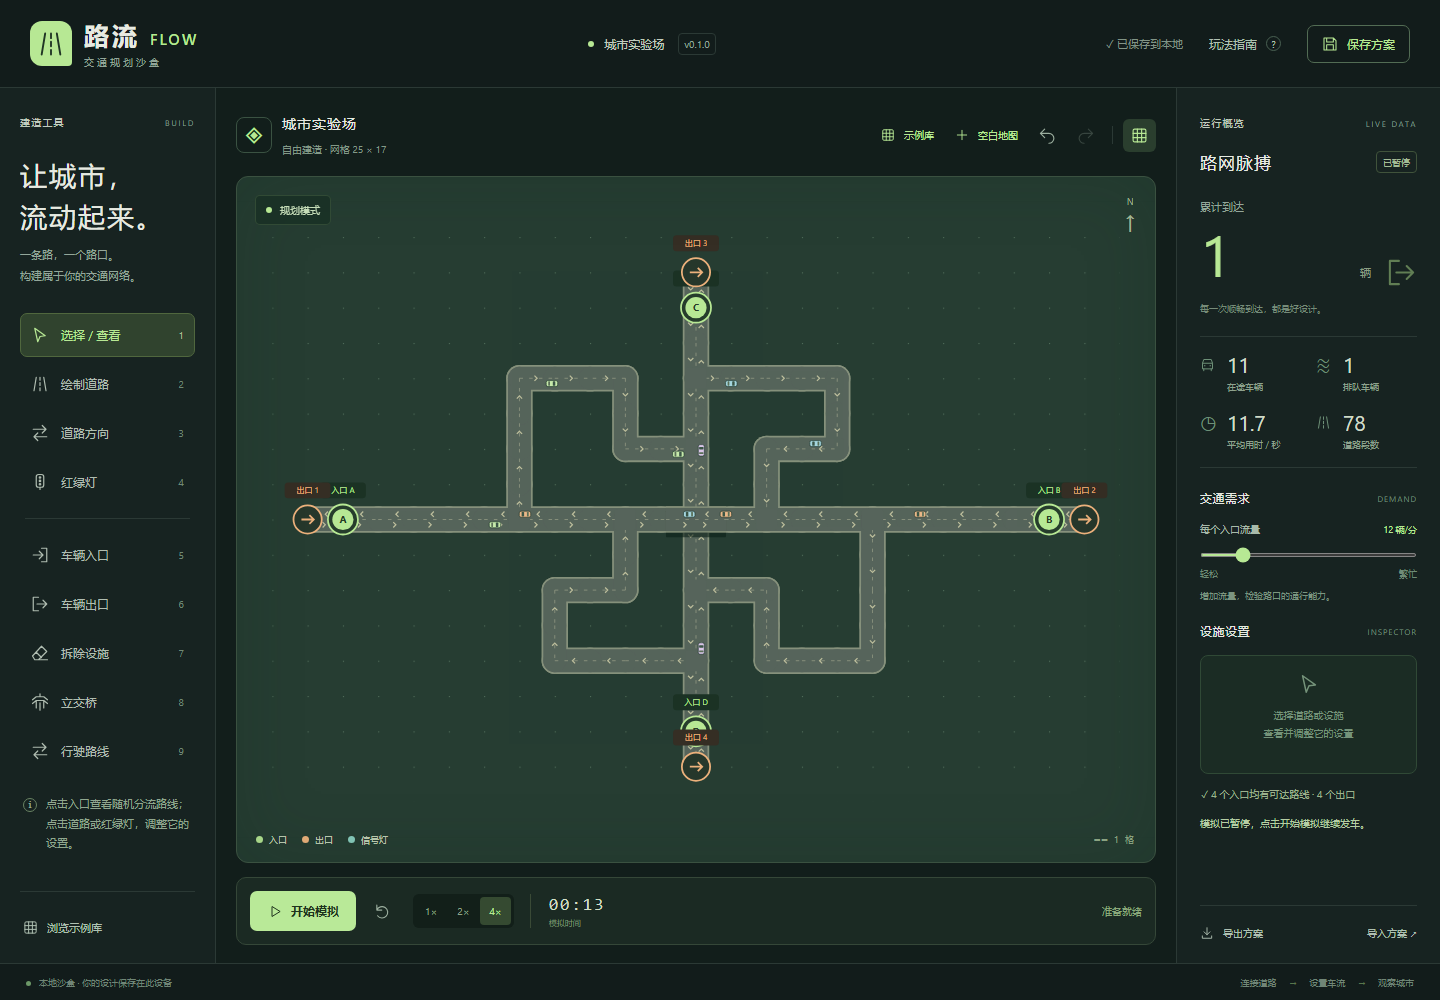
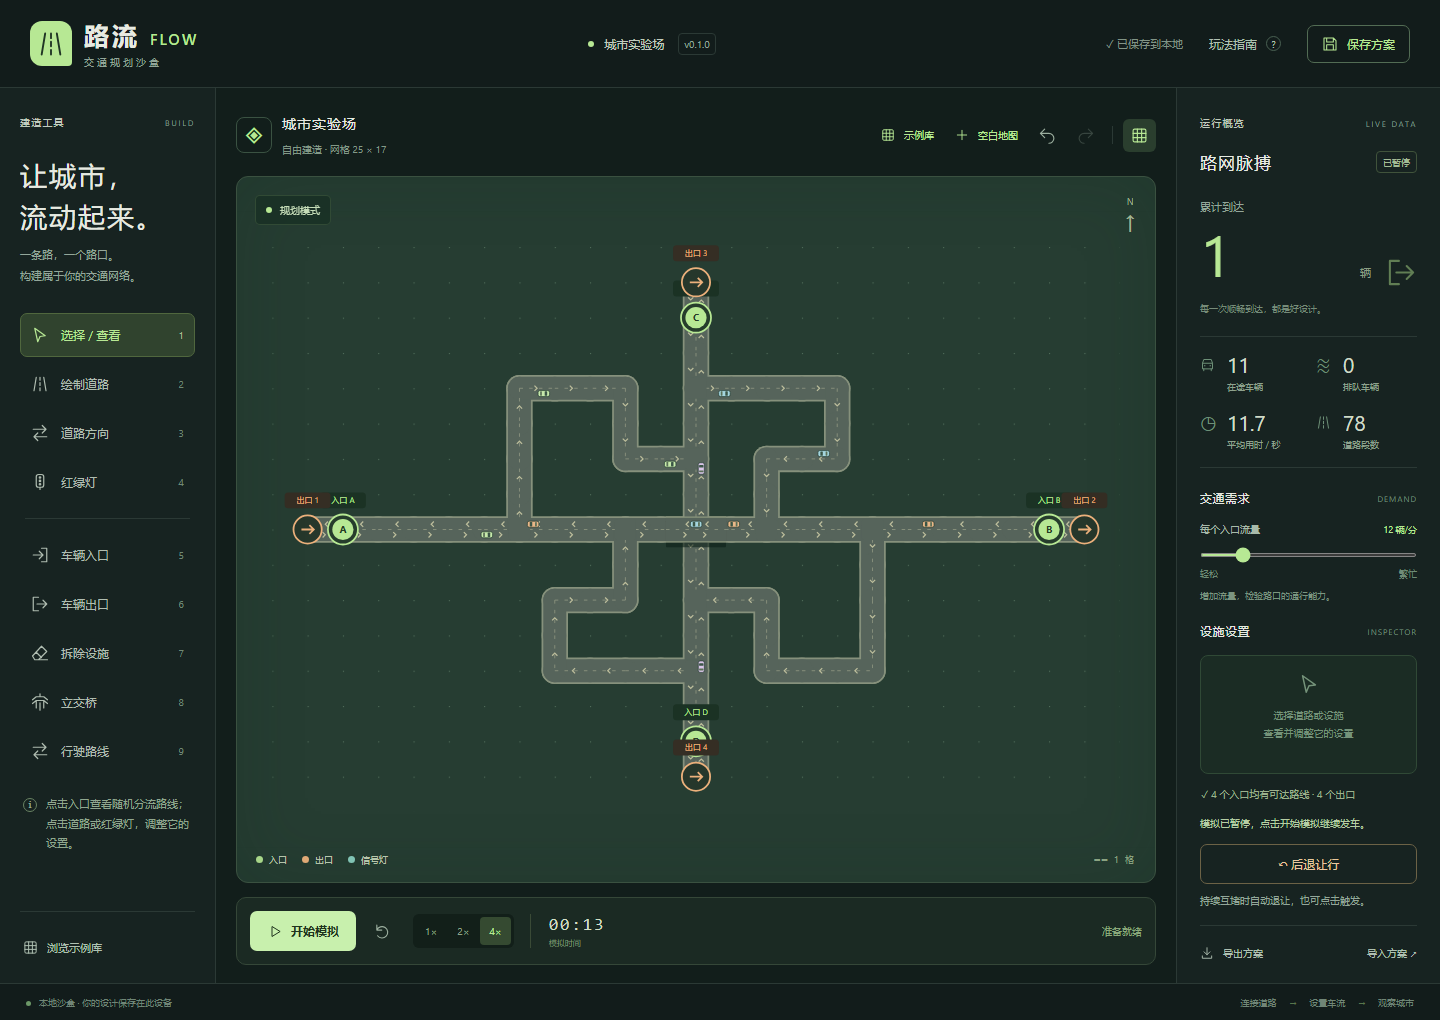
docs: verify safe reversing and browser controls

diff --git a/doc/后退让行测试报告.md b/doc/后退让行测试报告.md
@@ -1,0 +1,15 @@
+# 后退让行测试报告
+
+2026-10-25，本机功能更新，未推送或更新大厅发行包。实现提交 `4c60817`。
+
+车辆沿原来路线以每秒 0.55 格慢速后退，必要时退回刚经过的节点外。开始前检查整个倒车通道及路口占用，倒车期间跟车、合流和入口让出预约空间，退到安全位置后释放路口并暂停让行两秒。之后仍按原路线、信号和终点继续；单车十秒冷却。持续停住三秒且持锁阻挡其它车时自动请求，右侧按钮也可立即请求安全退让。暂停时只安排，不擅自开始模拟。
+
+- `node --test`：82 通过、0 失败，完整输出 `evidence/reversing-node-results.txt`。新增六项覆盖实际跨节点倒车、交叉车先通过、后方无空间拒绝、倒车通道与车距、普通红灯不自动倒车、入口让行和短退不侵入身后路口。
+- 新增测试在实现前先运行，五项均失败（缺少倒车移动/API），实现及补充边界检查后通过。
+- `node scripts/build.js`、`node scripts/check-dist.js`：八文件构建成功，与源码、版本和许可一致。新增 reversing 模块已纳入离线清单。
+- `node --check src/reversing.js`、`node --check src/simulation.js`、`node --check src/app.js`、`node --check scripts/browser-check.js`、`git diff --check`：通过。
+- 隔离 `http://localhost:4267/` 上运行 `node scripts/browser-check.js`：50 项通过、0 失败、浏览器错误 0。结果快照 `evidence/reversing-browser-results.json`，Chromium 151.0.7922.34。
+
+R07 导入有手画路线与长红灯的道路，暂停后点击后退按钮，继续运行时读取实际 SVG 车辆位置降低，检查倒车状态和计数。R08 在 390×844 确认按钮、提示及无横向溢出，继续模拟直到车辆实际抵达，保存路线不变，重置清空状态。桌面 1440×1000。短倒车场景采用浏览器时钟驱动真实 RAF，使 CPU 负载不消耗两次点击之间的红灯窗口；之前一次未捕获瞬时倒车状态的时序失败已复查并修正，保留位移、保存路线及最终到达断言。
+
+独立 in-app 测试页也实际操作城市示例，点击按钮并短暂继续，车辆位置由 0.70 退至约 0.572；保留暂停中的倒车演示。截图 `evidence/reversing-live.jpg`，另有 `reversing-desktop.png`、`reversing-mobile.png`。用户原游戏页未刷新或更改。对读取到的 52 段路、四入口用户地图副本运行 120 秒，六个连续二十秒窗口均有到达，最终 184 辆到达。

diff --git a/doc/实施计划.md b/doc/实施计划.md
@@ -1,6 +1,6 @@
 # 实施计划：路流交通规划沙盒
 
-- **Status**: COMPLETE
+- **Status**: VERIFIED
 - **Approved**: 2026-10-21 用户请求新建交通规划游戏
 - **Type**: feature
 
@@ -77,10 +77,12 @@
 - **Definition of Done**：`node --test` 覆盖八车环路完全停滞、多车闭环、路口锁交接、红灯、入口合流让行及连续车距；`node scripts/build.js`、`node scripts/check-dist.js`、`node scripts/browser-check.js` 全部通过，桌面/手机显示疏通次数且持续到达。
 - **Files**：src/simulation.js、src/app.js、tests/congestion.test.js、tests/fixtures/gridlock-ring.json、scripts/browser-check.js、dist/src/、README.md、CHANGELOG.md、doc/死锁疏通测试报告.md、doc/evidence/gridlock-*。
 
-## P15 原路后退让行 `[COMPLETE]`
+## P15 原路后退让行 `[VERIFIED]`
 - **Objective**：增加自动及按钮触发的真实慢速倒车，退回路口外让其它车通过，再沿原路线继续。
 - **Definition of Done**：`node --test` 覆盖后退跨节点、腾出路口、后方空间保护、入口/跟车让行、红灯与手画路线保持；构建核验、桌面/手机浏览器操作通过。
 - **Files**：src/reversing.js、src/simulation.js、src/app.js、index.html、styles.css、game-hub.integration.json、tests/reversing.test.js、scripts/browser-check.js、scripts/build.js、scripts/check-dist.js、dist/、README.md、CHANGELOG.md、doc/后退让行测试报告.md。
+
+2026-10-25 验证：82 项 Node、50 项 Chromium 检查通过，0 错误；八文件产物核验通过。见「后退让行测试报告.md」及独立证据快照 reversing-node-results.txt、reversing-browser-results.json 与 reversing-*.png/jpg。
 
 2026-10-25 验证：76 项 Node、48 项 Chromium 检查全部通过，浏览器错误 0；七文件构建与源码一致。独立页面实际运行至 631 辆到达、158 次协调疏通。完整命令、红绿复现及截图见「死锁疏通测试报告.md」。实现提交 a4b37a2，本机更新，未发布新发行包。
 
